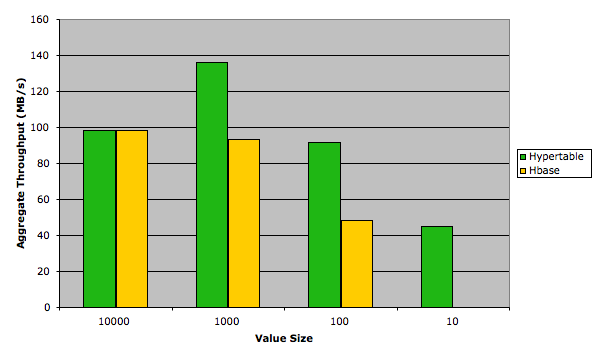
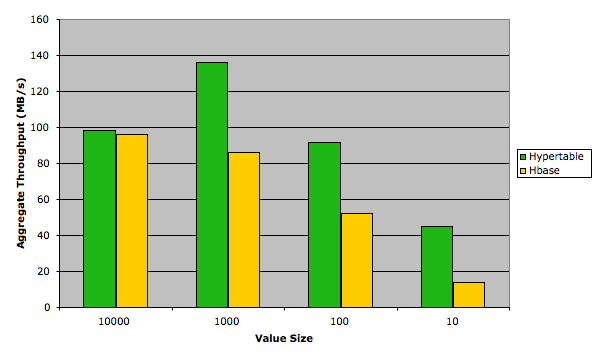
Merged in the final numbers for test1

diff --git a/com/pub/perfeval/test1/index.html b/com/pub/perfeval/test1/index.html
@@ -349,9 +349,9 @@ HBase.&nbsp; It was computed as <span style="font-family: monospace;">100*((Hype
       </td>
       <td style="vertical-align: top; font-family: monospace;">43775006.25<br>
       </td>
-      <td style="vertical-align: top; font-family: monospace;">28726574.09<br>
+      <td style="vertical-align: top; font-family: monospace;">28905561.22<br>
       </td>
-      <td style="vertical-align: top; font-family: monospace;">52<br>
+      <td style="vertical-align: top; font-family: monospace;">51<br>
       </td>
     </tr>
     <tr>
@@ -359,9 +359,9 @@ HBase.&nbsp; It was computed as <span style="font-family: monospace;">100*((Hype
       </td>
       <td style="vertical-align: top; font-family: monospace;">40755086.91<br>
       </td>
-      <td style="vertical-align: top; font-family: monospace;">19215295.57<br>
+      <td style="vertical-align: top; font-family: monospace;">20156697.27<br>
       </td>
-      <td style="vertical-align: top; font-family: monospace;">112<br>
+      <td style="vertical-align: top; font-family: monospace;">102<br>
       </td>
     </tr>
     <tr>
@@ -369,9 +369,9 @@ HBase.&nbsp; It was computed as <span style="font-family: monospace;">100*((Hype
       </td>
       <td style="vertical-align: top; font-family: monospace;">28916185.43<br>
       </td>
-      <td style="vertical-align: top; font-family: monospace;">5461629.24<br>
+      <td style="vertical-align: top; font-family: monospace;">5483390.01<br>
       </td>
-      <td style="vertical-align: top; font-family: monospace;">429<br>
+      <td style="vertical-align: top; font-family: monospace;">427<br>
       </td>
     </tr>
     <tr>
@@ -419,9 +419,9 @@ HBase.&nbsp; It was computed as <span style="font-family: monospace;">100*((Hype
       </td>
       <td style="vertical-align: top; font-family: monospace;">98344308.03<br>
       </td>
-      <td style="vertical-align: top; font-family: monospace;">98575080.96<br>
+      <td style="vertical-align: top; font-family: monospace;">96058237.92<br>
       </td>
-      <td style="vertical-align: top; font-family: monospace;">0<br>
+      <td style="vertical-align: top; font-family: monospace;">2<br>
       </td>
     </tr>
     <tr>
@@ -429,9 +429,9 @@ HBase.&nbsp; It was computed as <span style="font-family: monospace;">100*((Hype
       </td>
       <td style="vertical-align: top; font-family: monospace;">136163768.46<br>
       </td>
-      <td style="vertical-align: top; font-family: monospace;">93255975.69<br>
+      <td style="vertical-align: top; font-family: monospace;">86258026.58<br>
       </td>
-      <td style="vertical-align: top; font-family: monospace;">46<br>
+      <td style="vertical-align: top; font-family: monospace;">58<br>
       </td>
     </tr>
     <tr>
@@ -439,9 +439,9 @@ HBase.&nbsp; It was computed as <span style="font-family: monospace;">100*((Hype
       </td>
       <td style="vertical-align: top; font-family: monospace;">91401964.74<br>
       </td>
-      <td style="vertical-align: top; font-family: monospace;">48144188.75<br>
+      <td style="vertical-align: top; font-family: monospace;">52289249.21<br>
       </td>
-      <td style="vertical-align: top; font-family: monospace;">90<br>
+      <td style="vertical-align: top; font-family: monospace;">75<br>
       </td>
     </tr>
     <tr>
@@ -459,14 +459,14 @@ HBase.&nbsp; It was computed as <span style="font-family: monospace;">100*((Hype
 <br>
 <h3>Individual Test Reports</h3>
 The following table provides links to the individual test reports
-generated by the test dispatcher.&nbsp; One thing to note is that it
-appears that HBase has some consistency problems as evidenced by the
-discrepancy between the keys submitted and the items returned in the
-results for tests 3 and 4.&nbsp; The discrepancy in the&nbsp;
+generated by the test dispatcher.&nbsp; One thing to note is that
+HBase appears to have some consistency problems as evidenced by the
+discrepancy between the <i>Keys Submitted</i> and the <i>Items Returned</i> in the
+results for tests 3, 4, 20, 21, and 22.&nbsp; The discrepancy in the
 Sequential Read results are explained above in the Sequential Read
-section.&nbsp; The report generation logic in the test Dispatcher had a
-bug in it during the HBase scan tests, so no conclusion can be drawn
-from the discrepancy there.<br>
+section, and there was an overflow problem in the reporting logic for
+the 10 byte scan test which threw off the <i>Items Returned</i> value in
+the reports for both systems.<br>
 <br>
 <table>
   <tbody>
